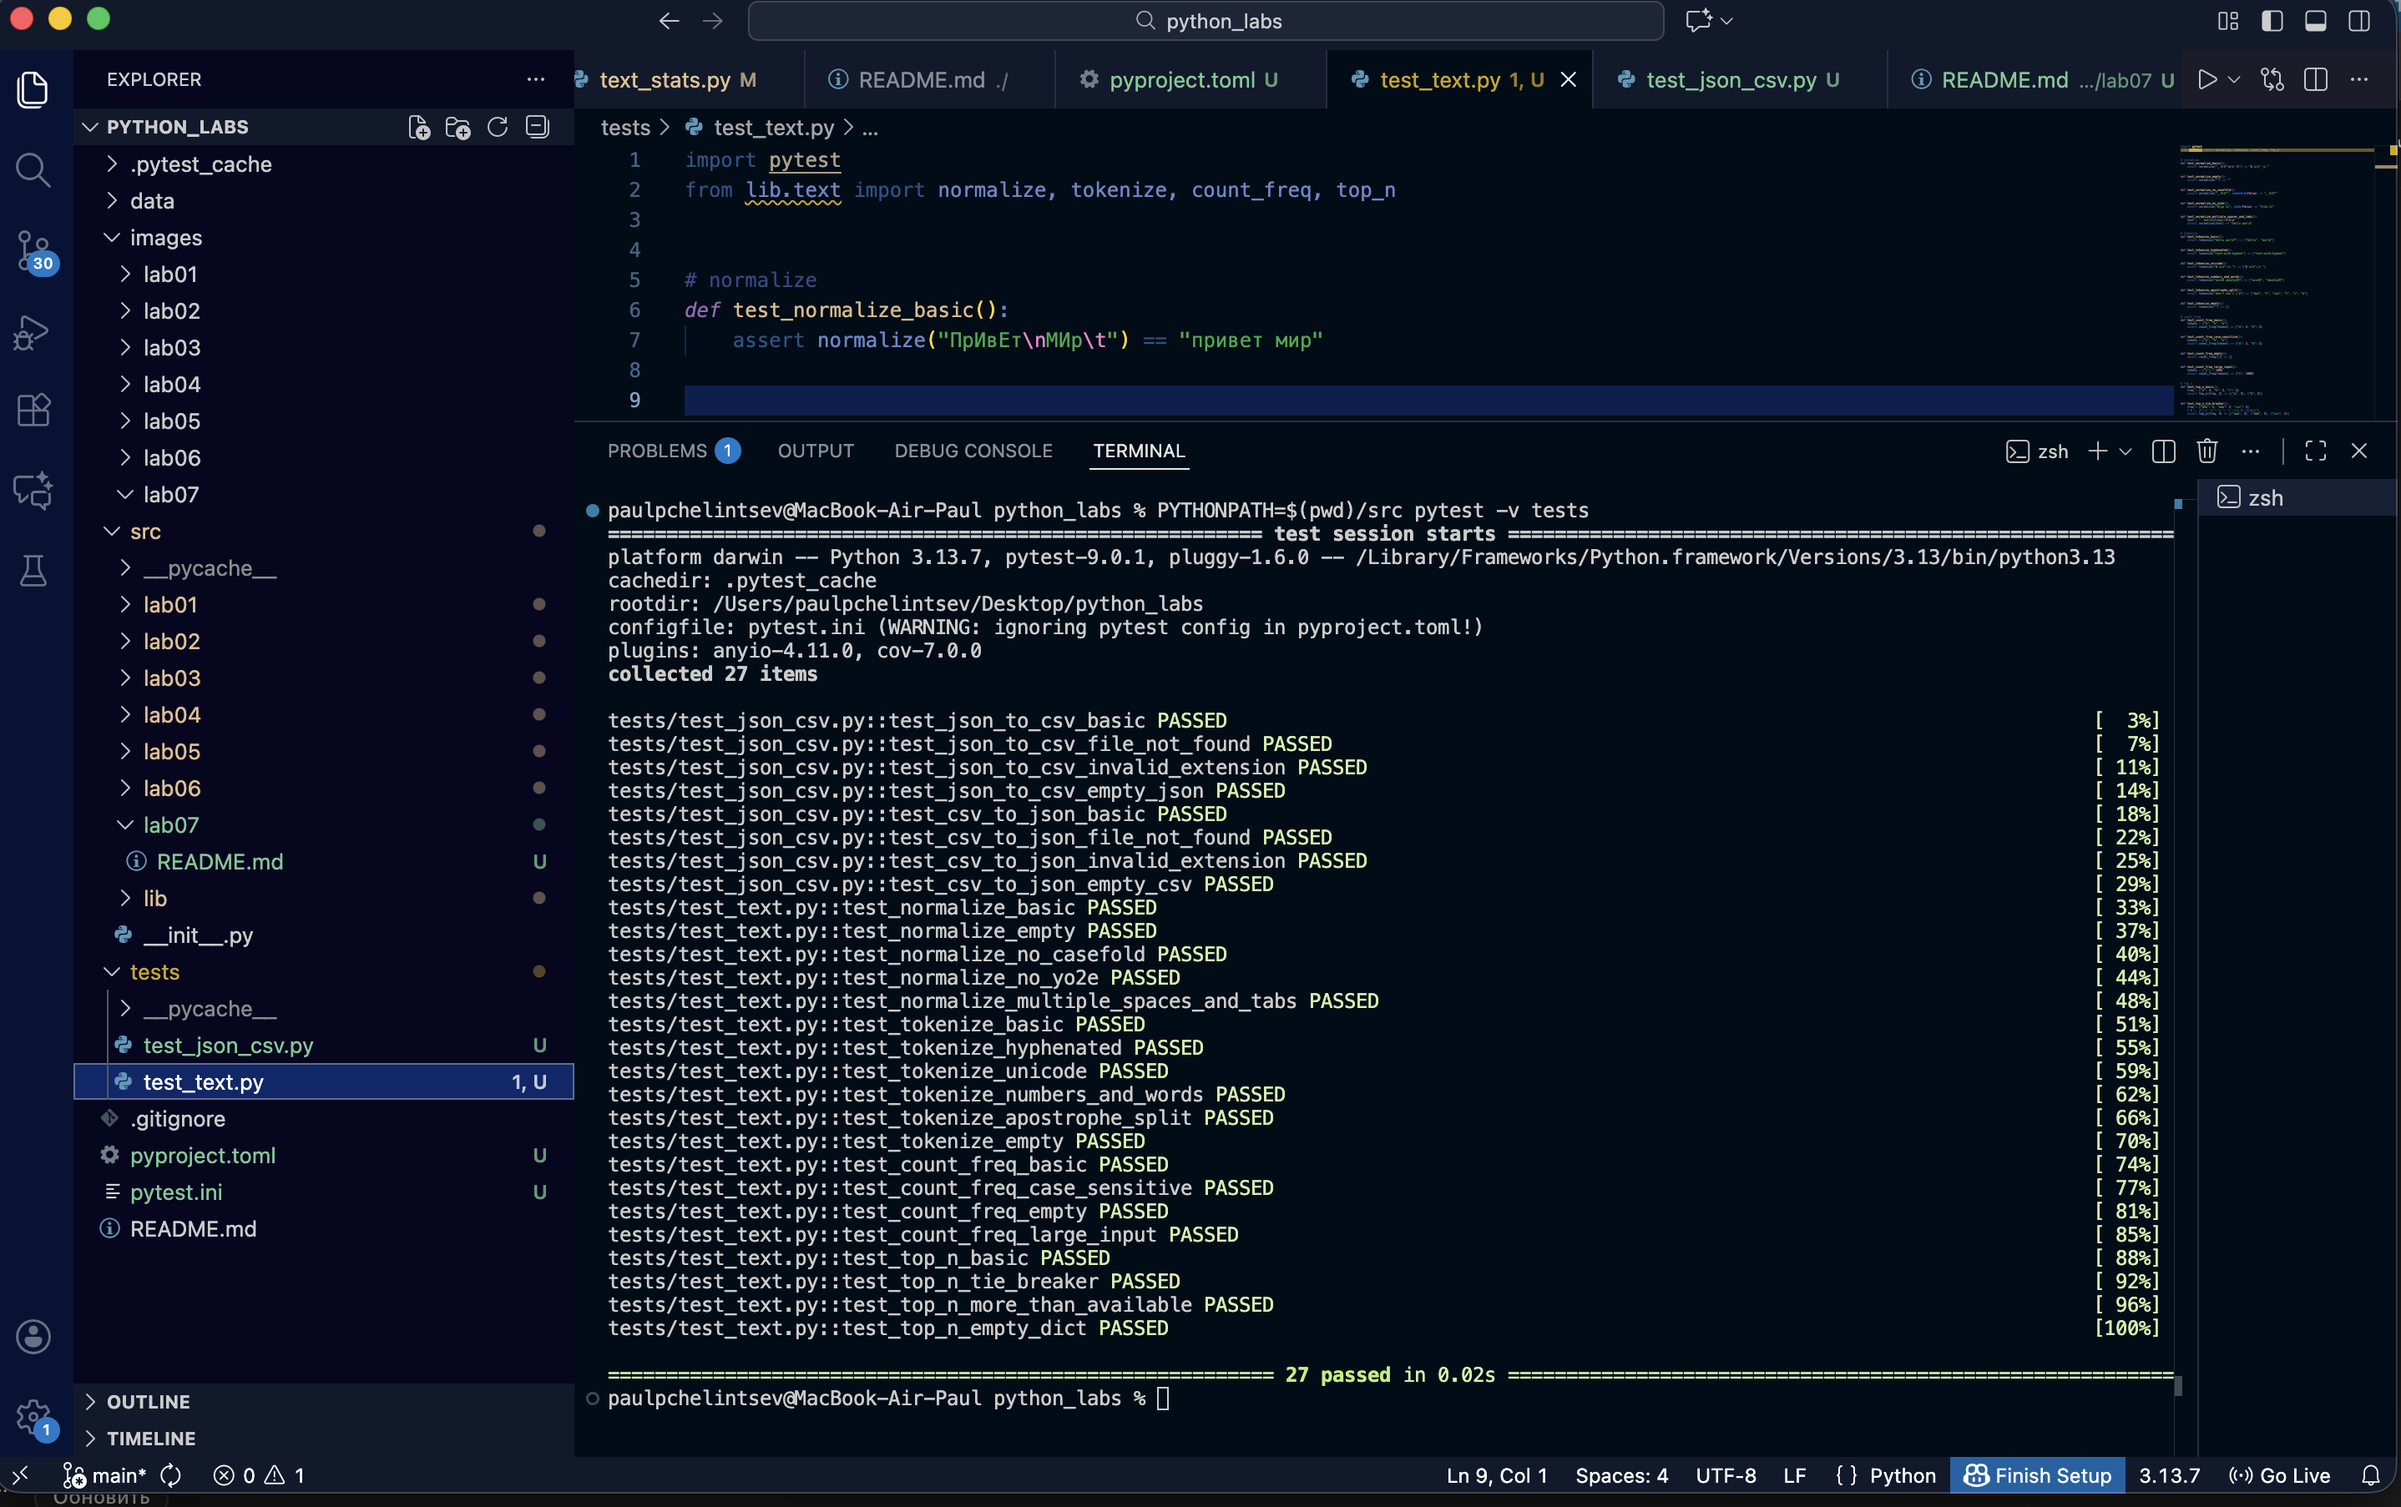
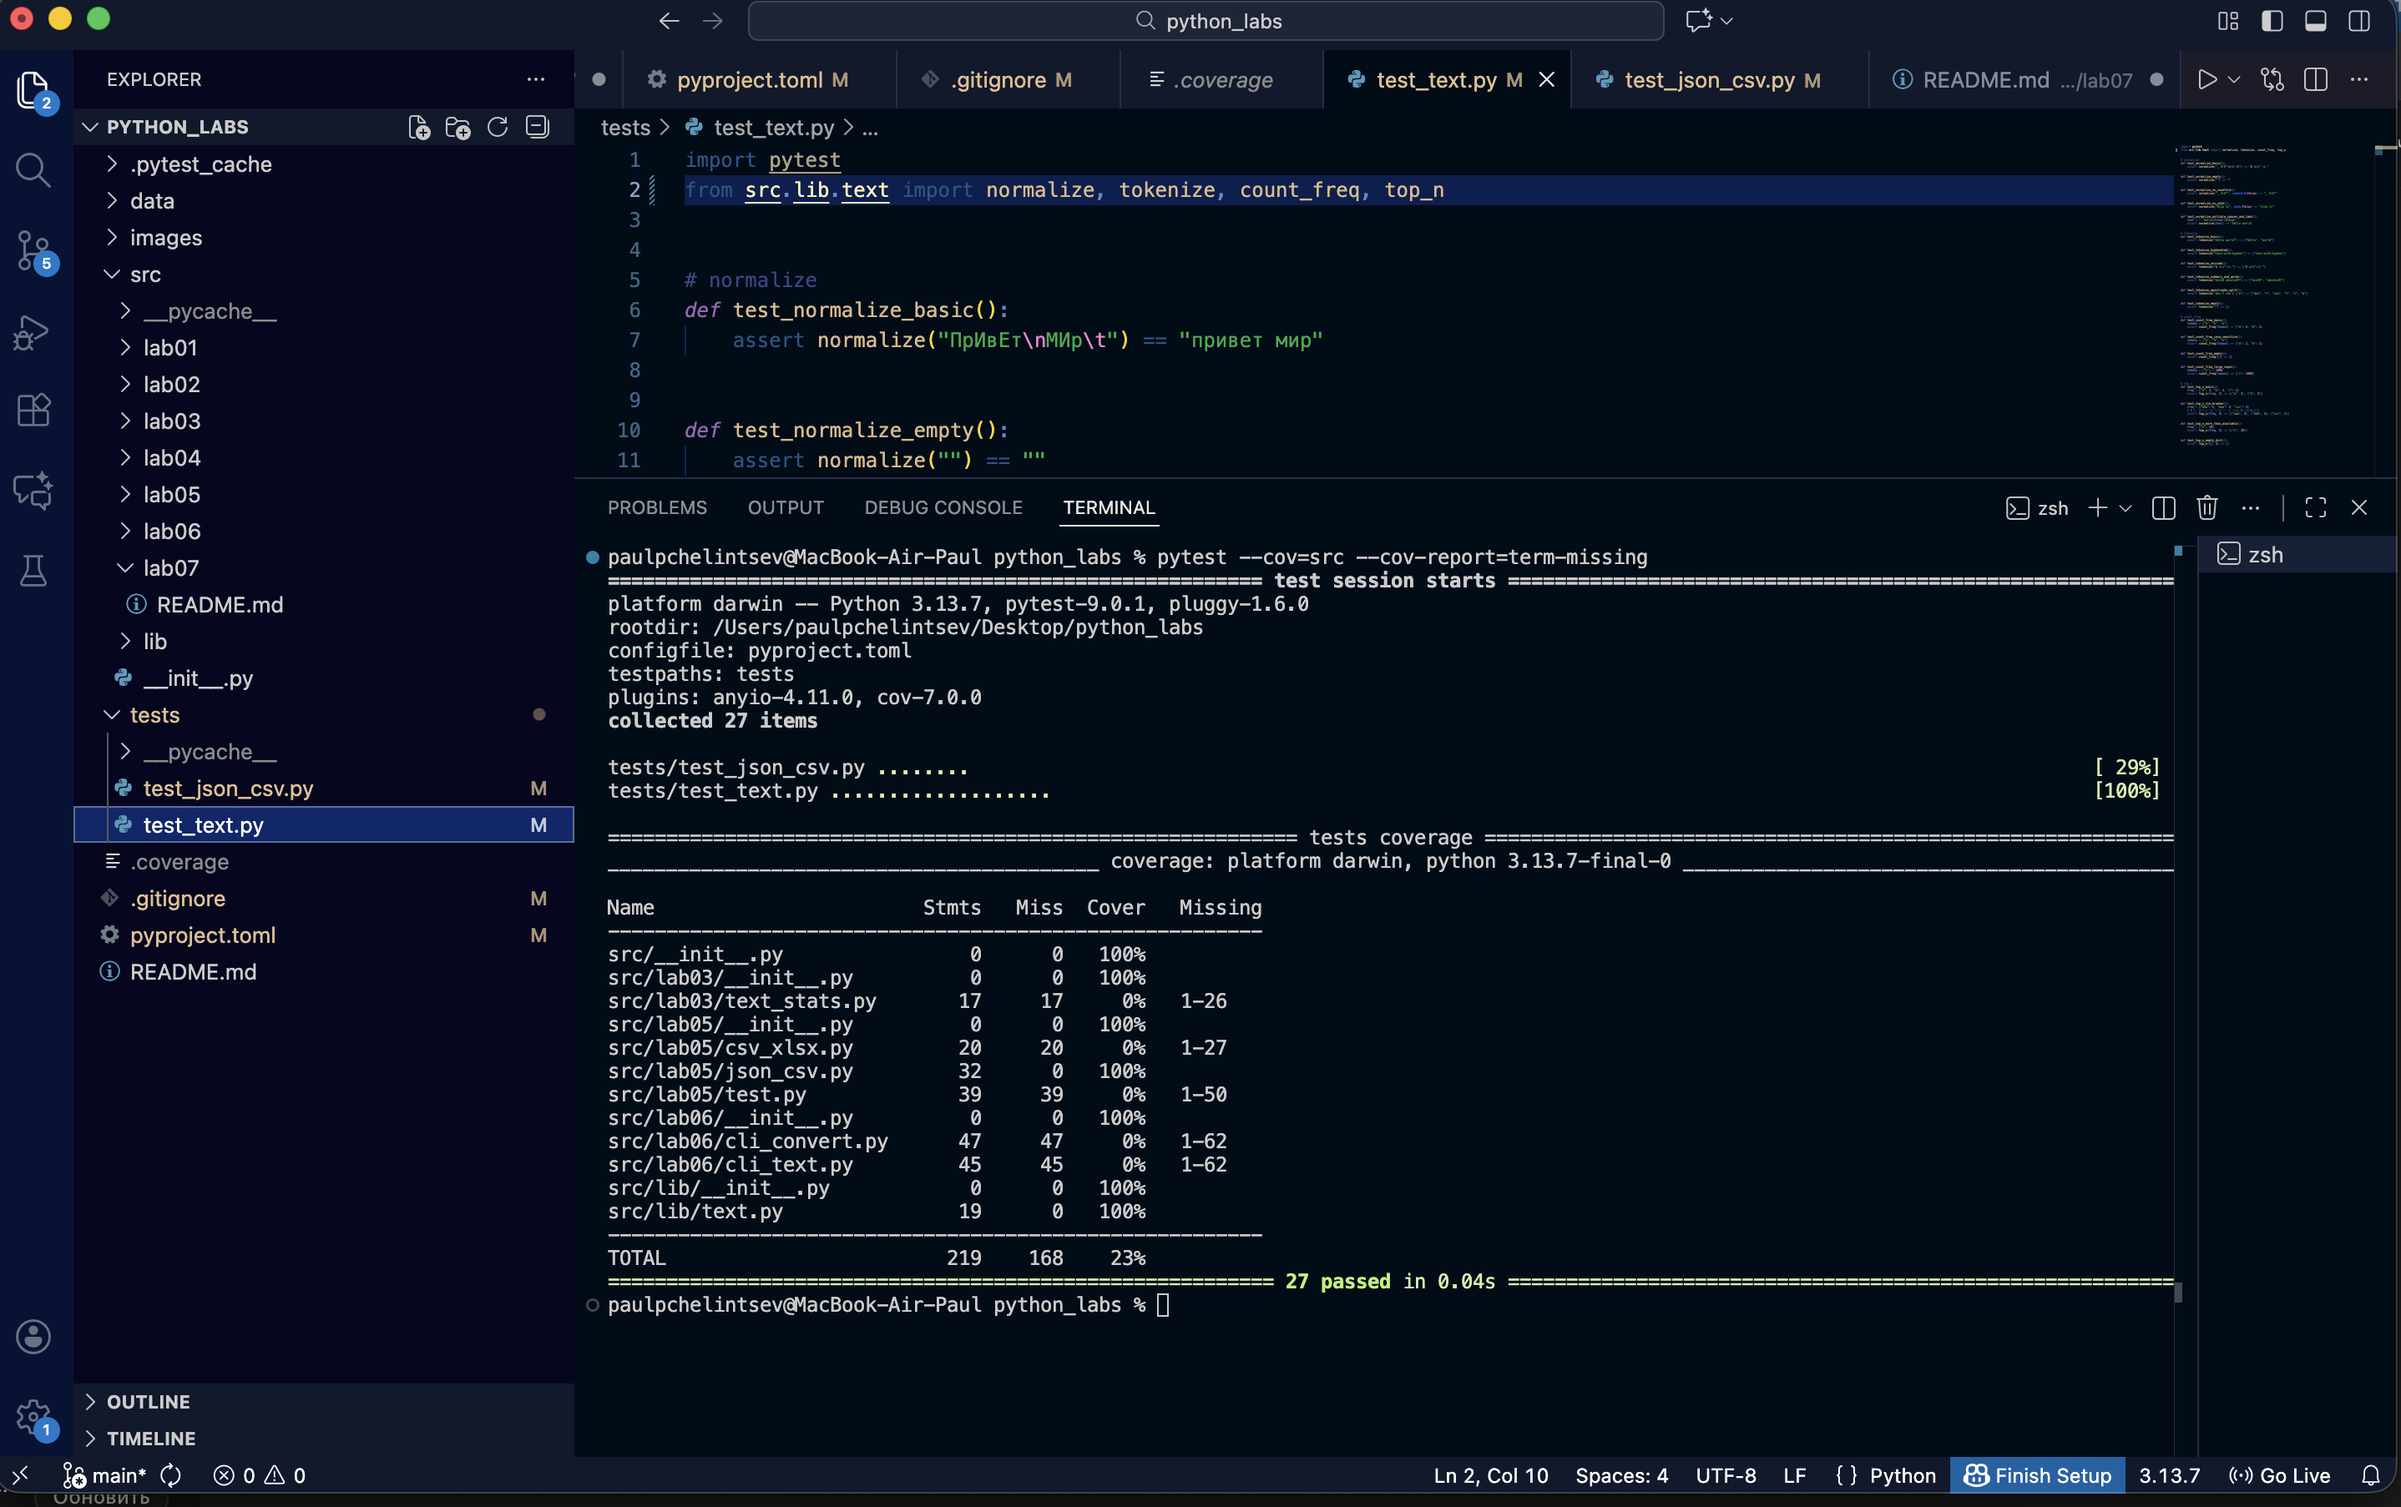
Re-Update

diff --git a/tests/test_json_csv.py b/tests/test_json_csv.py
@@ -2,7 +2,7 @@ import json
 import csv
 import pytest
 from pathlib import Path
-from lab05.json_csv import json_to_csv, csv_to_json
+from src.lab05.json_csv import json_to_csv, csv_to_json
 
 
 # json_to_csv

diff --git a/tests/test_text.py b/tests/test_text.py
@@ -1,5 +1,5 @@
 import pytest
-from lib.text import normalize, tokenize, count_freq, top_n
+from src.lib.text import normalize, tokenize, count_freq, top_n
 
 
 # normalize

diff --git a/README.md b/README.md
@@ -997,5 +997,5 @@ def test_csv_to_json_empty_csv(tmp_path):
 ![Тест ](images/lab07/tests.png)
 
 ```
-PYTHONPATH=$(pwd)/src pytest -v tests
+pytest --cov=src --cov-report=term-missing
 ```

diff --git a/src/lab07/README.md b/src/lab07/README.md
@@ -180,5 +180,5 @@ def test_csv_to_json_empty_csv(tmp_path):
 ![Тест ](images/lab07/tests.png)
 
 ```
-PYTHONPATH=$(pwd)/src pytest -v tests
+pytest --cov=src --cov-report=term-missing
 ```
